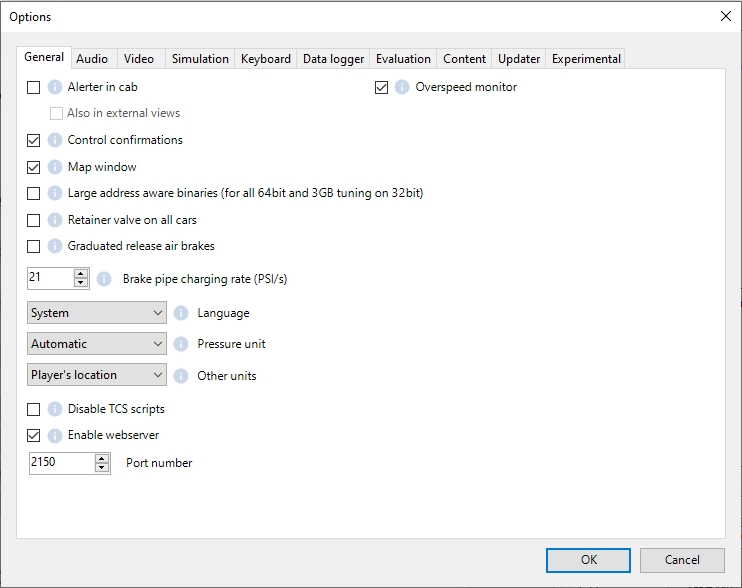
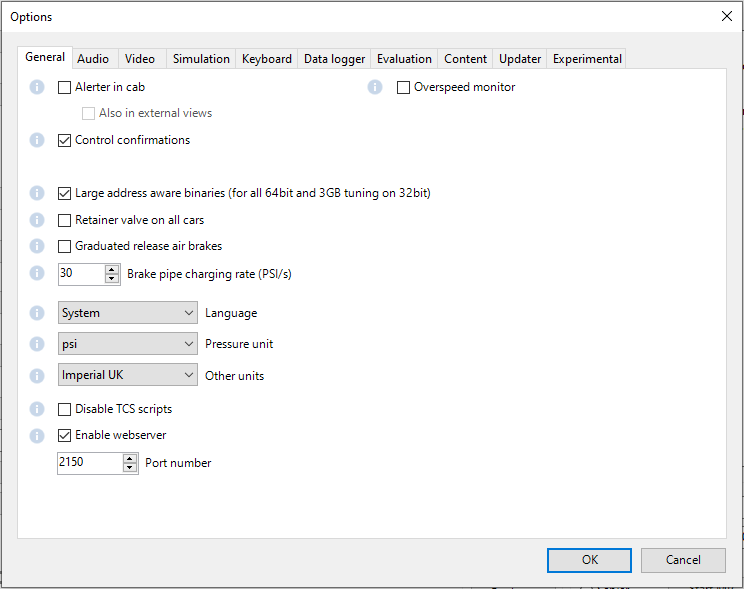
Removed option ViewDispatcher
The MapWindow is now always available but consumes no resources until Ctrl+9 used to make it visible.

Changed region(s): [[0.0, 0.0, 0.8369, 0.9184], [0.0, 0.0, 1.0, 1.0]]

diff --git a/Source/Menu/Options.Designer.cs b/Source/Menu/Options.Designer.cs
@@ -38,7 +38,6 @@
             this.buttonCancel = new System.Windows.Forms.Button();
             this.checkAlerter = new System.Windows.Forms.CheckBox();
             this.checkControlConfirmations = new System.Windows.Forms.CheckBox();
-            this.checkViewMapWindow = new System.Windows.Forms.CheckBox();
             this.tabOptions = new System.Windows.Forms.TabControl();
             this.tabPageGeneral = new System.Windows.Forms.TabPage();
             this.pbOverspeedMonitor = new System.Windows.Forms.PictureBox();
@@ -53,7 +52,6 @@
             this.pbLAA = new System.Windows.Forms.PictureBox();
             this.pbAlerter = new System.Windows.Forms.PictureBox();
             this.pbControlConfirmations = new System.Windows.Forms.PictureBox();
-            this.pbMapWindow = new System.Windows.Forms.PictureBox();
             this.labelPortNumber = new System.Windows.Forms.Label();
             this.numericWebServerPort = new System.Windows.Forms.NumericUpDown();
             this.checkEnableWebServer = new System.Windows.Forms.CheckBox();
@@ -213,7 +211,6 @@
             ((System.ComponentModel.ISupportInitialize)(this.pbLAA)).BeginInit();
             ((System.ComponentModel.ISupportInitialize)(this.pbAlerter)).BeginInit();
             ((System.ComponentModel.ISupportInitialize)(this.pbControlConfirmations)).BeginInit();
-            ((System.ComponentModel.ISupportInitialize)(this.pbMapWindow)).BeginInit();
             ((System.ComponentModel.ISupportInitialize)(this.numericWebServerPort)).BeginInit();
             this.tabPageAudio.SuspendLayout();
             ((System.ComponentModel.ISupportInitialize)(this.numericExternalSoundPassThruPercent)).BeginInit();
@@ -347,18 +344,6 @@
             this.checkControlConfirmations.MouseEnter += new System.EventHandler(this.HelpIcon_MouseEnter);
             this.checkControlConfirmations.MouseLeave += new System.EventHandler(this.HelpIcon_MouseLeave);
             // 
-            // checkViewMapWindow
-            // 
-            this.checkViewMapWindow.AutoSize = true;
-            this.checkViewMapWindow.Location = new System.Drawing.Point(32, 75);
-            this.checkViewMapWindow.Name = "checkViewMapWindow";
-            this.checkViewMapWindow.Size = new System.Drawing.Size(254, 17);
-            this.checkViewMapWindow.TabIndex = 2;
-            this.checkViewMapWindow.Text = "Map window                                                        ";
-            this.checkViewMapWindow.UseVisualStyleBackColor = true;
-            this.checkViewMapWindow.MouseEnter += new System.EventHandler(this.HelpIcon_MouseEnter);
-            this.checkViewMapWindow.MouseLeave += new System.EventHandler(this.HelpIcon_MouseLeave);
-            // 
             // tabOptions
             // 
             this.tabOptions.Anchor = ((System.Windows.Forms.AnchorStyles)((((System.Windows.Forms.AnchorStyles.Top | System.Windows.Forms.AnchorStyles.Bottom) 
@@ -394,7 +379,6 @@
             this.tabPageGeneral.Controls.Add(this.pbLAA);
             this.tabPageGeneral.Controls.Add(this.pbAlerter);
             this.tabPageGeneral.Controls.Add(this.pbControlConfirmations);
-            this.tabPageGeneral.Controls.Add(this.pbMapWindow);
             this.tabPageGeneral.Controls.Add(this.labelPortNumber);
             this.tabPageGeneral.Controls.Add(this.numericWebServerPort);
             this.tabPageGeneral.Controls.Add(this.checkEnableWebServer);
@@ -407,7 +391,6 @@
             this.tabPageGeneral.Controls.Add(this.comboPressureUnit);
             this.tabPageGeneral.Controls.Add(this.labelLanguage);
             this.tabPageGeneral.Controls.Add(this.comboLanguage);
-            this.tabPageGeneral.Controls.Add(this.checkViewMapWindow);
             this.tabPageGeneral.Controls.Add(this.checkControlConfirmations);
             this.tabPageGeneral.Controls.Add(this.checkAlerterExternal);
             this.tabPageGeneral.Controls.Add(this.numericBrakePipeChargingRate);
@@ -566,18 +549,6 @@
             this.pbControlConfirmations.Click += new System.EventHandler(this.HelpIcon_Click);
             this.pbControlConfirmations.MouseEnter += new System.EventHandler(this.HelpIcon_MouseEnter);
             this.pbControlConfirmations.MouseLeave += new System.EventHandler(this.HelpIcon_MouseLeave);
-            // 
-            // pbMapWindow
-            // 
-            this.pbMapWindow.Image = global::ORTS.Properties.Resources.info_18;
-            this.pbMapWindow.Location = new System.Drawing.Point(6, 76);
-            this.pbMapWindow.Name = "pbMapWindow";
-            this.pbMapWindow.Size = new System.Drawing.Size(18, 18);
-            this.pbMapWindow.TabIndex = 18;
-            this.pbMapWindow.TabStop = false;
-            this.pbMapWindow.Click += new System.EventHandler(this.HelpIcon_Click);
-            this.pbMapWindow.MouseEnter += new System.EventHandler(this.HelpIcon_MouseEnter);
-            this.pbMapWindow.MouseLeave += new System.EventHandler(this.HelpIcon_MouseLeave);
             // 
             // labelPortNumber
             // 
@@ -2486,7 +2457,6 @@
             ((System.ComponentModel.ISupportInitialize)(this.pbLAA)).EndInit();
             ((System.ComponentModel.ISupportInitialize)(this.pbAlerter)).EndInit();
             ((System.ComponentModel.ISupportInitialize)(this.pbControlConfirmations)).EndInit();
-            ((System.ComponentModel.ISupportInitialize)(this.pbMapWindow)).EndInit();
             ((System.ComponentModel.ISupportInitialize)(this.numericWebServerPort)).EndInit();
             this.tabPageAudio.ResumeLayout(false);
             this.tabPageAudio.PerformLayout();
@@ -2548,7 +2518,6 @@
         private System.Windows.Forms.Button buttonCancel;
         private System.Windows.Forms.CheckBox checkAlerter;
         private System.Windows.Forms.CheckBox checkControlConfirmations;
-		private System.Windows.Forms.CheckBox checkViewMapWindow;
         private System.Windows.Forms.TabControl tabOptions;
         private System.Windows.Forms.TabPage tabPageGeneral;
         private System.Windows.Forms.TabPage tabPageKeyboard;
@@ -2692,7 +2661,6 @@
         private System.Windows.Forms.Label labelPortNumber;
         private System.Windows.Forms.CheckBox checkUseLocationPassingPaths;
         private System.Windows.Forms.CheckBox checkBoxNoDieselEngineStart;
-        private System.Windows.Forms.PictureBox pbMapWindow;
         private System.Windows.Forms.PictureBox pbControlConfirmations;
         private System.Windows.Forms.PictureBox pbAlerter;
         private System.Windows.Forms.PictureBox pbLAA;

diff --git a/Source/RunActivity/Viewer3D/Debugging/DebugViewerForm.cs b/Source/RunActivity/Viewer3D/Debugging/DebugViewerForm.cs
@@ -165,28 +165,74 @@ namespace Orts.Viewer3D.Debugging
 
             this.simulator = simulator;
             this.Viewer = viewer;
-			TimetableWindow = new TimetableWindow(this);
+            TimetableWindow = new TimetableWindow(this);
 
-			nodes = simulator.TDB.TrackDB.TrackNodes;
+            nodes = simulator.TDB.TrackDB.TrackNodes;
 
             // initialise the timer used to handle user input
             UITimer = new Timer();
             UITimer.Interval = 100;
             UITimer.Tick += new System.EventHandler(UITimer_Tick);
             UITimer.Start();
+        }
 
-            ViewWindow = new RectangleF(0, 0, 5000f, 5000f);
-            windowSizeUpDown.Accelerations.Add(new NumericUpDownAcceleration(1, 100));
-            boxSetSignal.Items.Add("System Controlled");
-            boxSetSignal.Items.Add("Stop");
-            boxSetSignal.Items.Add("Approach");
-            boxSetSignal.Items.Add("Proceed");
-            chkAllowUserSwitch.Checked = false;
-            selectedTrainList = new List<Train>();
-            if (MultiPlayer.MPManager.IsMultiPlayer()) { MultiPlayer.MPManager.AllowedManualSwitch = false; }
+        public int RedrawCount;
+		public Font trainFont;
+		public Font sidingFont;
+		public Font PlatformFont;
+		public Font SignalFont;
+		public SolidBrush trainBrush;
+		public SolidBrush sidingBrush;
+		public SolidBrush PlatformBrush;
+		public SolidBrush SignalBrush;
+		public SolidBrush InactiveTrainBrush;
 
-            InitData();
-            InitImage();
+		private double lastUpdateTime;
+
+      /// <summary>
+      /// When the user holds down the  "L", "R", "U", "D" buttons,
+      /// shift the view. Avoids the case when the user has to click
+      /// buttons like crazy.
+      /// </summary>
+      /// <param name="sender"></param>
+      /// <param name="e"></param>
+      void UITimer_Tick(object sender, EventArgs e)
+      {
+			if (Viewer.DebugViewerEnabled == false) // Ctrl+9 sets this true to initialise the window and make it visible
+			{
+				this.Visible = false;
+				firstShow = true;
+				return;
+			}
+
+			if (firstShow)
+            {
+				InitializeWindow();					
+			}
+			this.Visible = true;
+
+			if (Program.Simulator.GameTime - lastUpdateTime < 1)
+				return;
+			
+			lastUpdateTime = Program.Simulator.GameTime;
+
+			GenerateView();
+	  }
+
+		private void InitializeWindow()
+		{
+			ViewWindow = new RectangleF(0, 0, 5000f, 5000f);
+			windowSizeUpDown.Accelerations.Add(new NumericUpDownAcceleration(1, 100));
+			boxSetSignal.Items.Add("System Controlled");
+			boxSetSignal.Items.Add("Stop");
+			boxSetSignal.Items.Add("Approach");
+			boxSetSignal.Items.Add("Proceed");
+			chkAllowUserSwitch.Checked = false;
+			selectedTrainList = new List<Train>();
+			if (MultiPlayer.MPManager.IsMultiPlayer()) { MultiPlayer.MPManager.AllowedManualSwitch = false; }
+
+			InitData();
+			InitImage();
 
 			/*
           if (MultiPlayer.MPManager.IsMultiPlayer())
@@ -213,40 +259,8 @@ namespace Orts.Viewer3D.Debugging
 			tWindow.SelectedIndex = (MPManager.IsMultiPlayer()) ? 0 : 1;
 			TimetableWindow.SetControls();
 		}
-
-		public int RedrawCount;
-		public Font trainFont;
-		public Font sidingFont;
-		public Font PlatformFont;
-		public Font SignalFont;
-		public SolidBrush trainBrush;
-		public SolidBrush sidingBrush;
-		public SolidBrush PlatformBrush;
-		public SolidBrush SignalBrush;
-		public SolidBrush InactiveTrainBrush;
-
-		private double lastUpdateTime;
-
-      /// <summary>
-      /// When the user holds down the  "L", "R", "U", "D" buttons,
-      /// shift the view. Avoids the case when the user has to click
-      /// buttons like crazy.
-      /// </summary>
-      /// <param name="sender"></param>
-      /// <param name="e"></param>
-      void UITimer_Tick(object sender, EventArgs e)
-      {
-		  if (Viewer.DebugViewerEnabled == false) { this.Visible = false; firstShow = true; return; }
-		  else this.Visible = true;
-
-		 if (Program.Simulator.GameTime - lastUpdateTime < 1) return;
-		 lastUpdateTime = Program.Simulator.GameTime;
-
-			GenerateView();
-	  }
-
-	  #region initData
-	  private void InitData()
+		#region initData
+		private void InitData()
 	  {
 		  if (!loaded)
 		  {

diff --git a/Source/Menu/Options.cs b/Source/Menu/Options.cs
@@ -143,7 +143,6 @@ namespace ORTS
             checkAlerterExternal.Checked = Settings.Alerter && !Settings.AlerterDisableExternal;
             checkOverspeedMonitor.Checked = Settings.SpeedControl;
             checkControlConfirmations.Checked = !Settings.SuppressConfirmations;
-            checkViewMapWindow.Checked = Settings.ViewDispatcher;
             checkUseLargeAddressAware.Checked = Settings.UseLargeAddressAware;
             checkRetainers.Checked = Settings.RetainersOnAllCars;
             checkGraduatedRelease.Checked = Settings.GraduatedRelease;
@@ -428,7 +427,6 @@ namespace ORTS
             Settings.AlerterDisableExternal = !checkAlerterExternal.Checked;
             Settings.SpeedControl = checkOverspeedMonitor.Checked;
             Settings.SuppressConfirmations = !checkControlConfirmations.Checked;
-            Settings.ViewDispatcher = checkViewMapWindow.Checked;
             Settings.UseLargeAddressAware = checkUseLargeAddressAware.Checked;
             Settings.RetainersOnAllCars = checkRetainers.Checked;
             Settings.GraduatedRelease = checkGraduatedRelease.Checked;
@@ -821,7 +819,6 @@ namespace ORTS
             {
                 (pbAlerter, new[] { checkAlerter }),
                 (pbControlConfirmations, new[] { checkControlConfirmations }),
-                (pbMapWindow, new[] { checkViewMapWindow }),
                 (pbLAA, new[] { checkUseLargeAddressAware }),
                 (pbRetainers, new[] { checkRetainers }),
                 (pbGraduatedRelease, new[] { checkGraduatedRelease }),
@@ -859,11 +856,6 @@ namespace ORTS
                 {
                     pbControlConfirmations,
                     baseUrl + "/options.html#control-confirmations"
-                },
-                {
-                    pbMapWindow,
-                    // This URL is temporary, waiting for https://open-rails.readthedocs.io to be updated to match the Manual in PDF format.
-                    baseUrl + "/options.html#dispatcher-window"
                 },
                 {
                     pbLAA,

diff --git a/Source/Documentation/Manual/options.rst b/Source/Documentation/Manual/options.rst
@@ -32,23 +32,6 @@ sometimes use a view other than the cabview to follow the train, and
 therefore will not see the alerter warning, selecting the related option
 *Also in external views* enables the alerter in those views as well.
 
-.. _options-map-window:
-
-Map window
------------------
-
-It is suggested to always select this option. When this option is selected,
-pressing ``<Ctrl+9>`` at runtime creates an additional window like the
-following. This window coexists with the main Open Rails window, and
-``<Alt+Tab>`` switches between it and the Open Rails window. See the related
-option :ref:`Fast fullscreen Alt+Tab <options-fullscreen>`.
-
-Through this window you can monitor train movements and also influence
-them, by setting signals and switches. A complete description of the
-dispatcher tab can be found :ref:`here <driving-dispatcher>`.
-
-.. image:: images/options-dispatcher.png
-
 Graduated release air brakes
 ----------------------------
 
